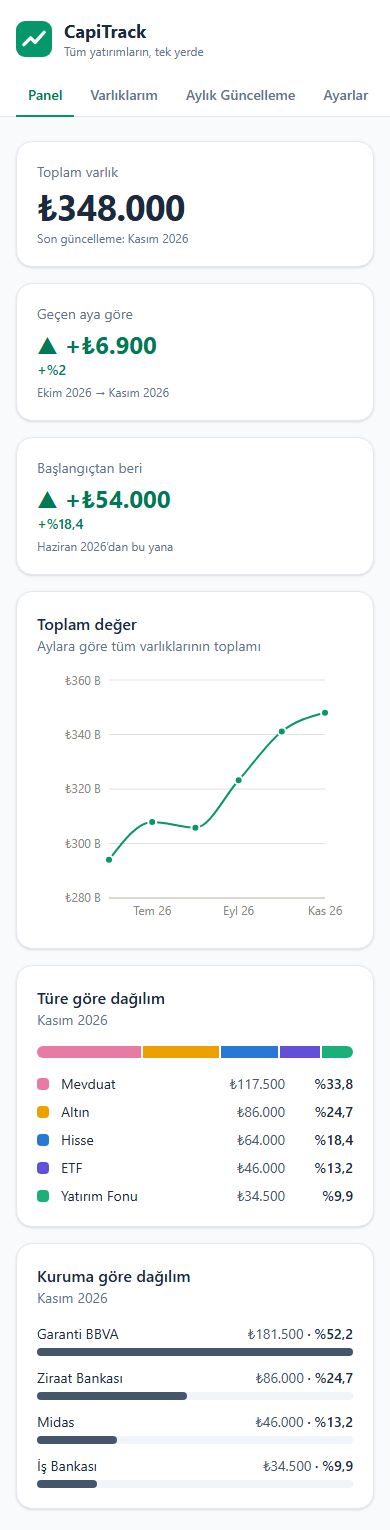
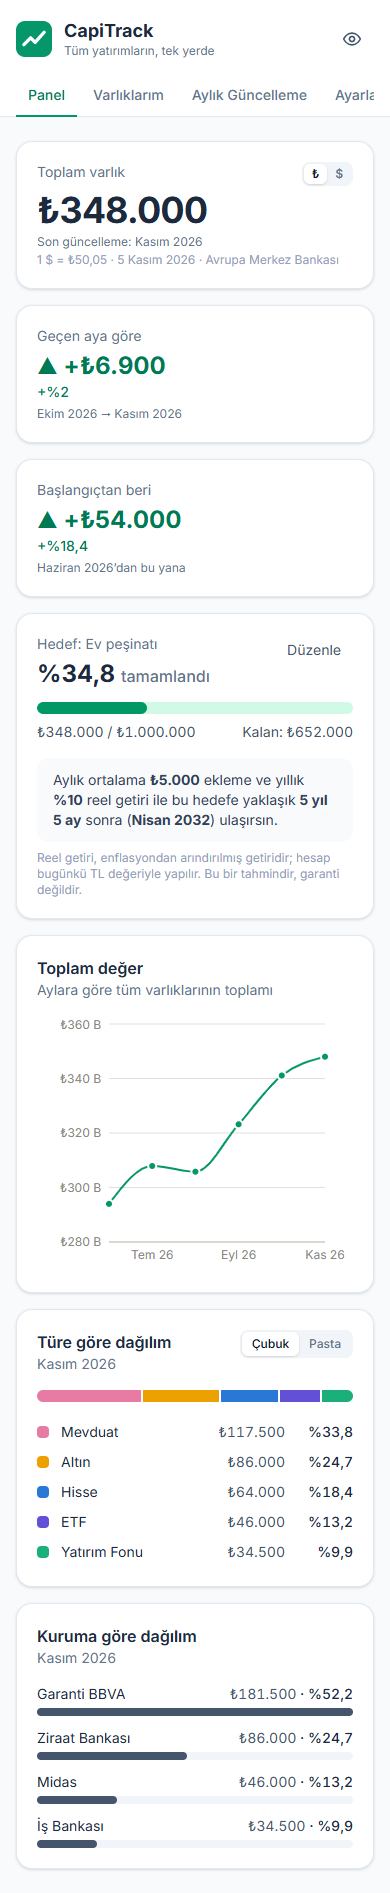
README ve ekran görüntülerini yeni özelliklerle güncelle

diff --git a/README.md b/README.md
@@ -20,10 +20,15 @@
 ## Özellikler
 
 - **Panel:** toplam varlık, geçen aya göre ve başlangıçtan beri değişim (₺ ve %), aylara göre toplam değer çizgi grafiği, türe göre ve kuruma göre dağılım.
+- **Çubuk / Pasta görünümü:** türe göre dağılım, bölümlü çubuk veya halka (pasta) grafik olarak gösterilebilir. Pastada bir dilimin ya da listedeki bir türün üzerine gelince halkanın ortasında o türün tutarı ve payı görünür.
+- **TL / Dolar:** toplam varlığa tıklayınca TL ile dolar arasında geçiş yapılır. Kur, ücretsiz bir servisten (Avrupa Merkez Bankası referans kuru) alınır ve 6 saat önbellekte tutulur; internet yoksa en son alınan kur kullanılır.
+- **Gizlilik modu:** üst menüdeki göz ikonu, kafe veya kütüphane gibi ortak alanlarda tüm tutarları tek tıkla `₺***,**` olarak gizler. Değer giriş kutuları bulanıklaşır, kutuya tıklayınca netleşir. Tercih hatırlanır.
+- **Hedef:** bir birikim hedefi (ör. ev peşinatı) belirlenir; portföyün hedefe oranı ilerleme çubuğuyla gösterilir. Aylık ekleme ve beklenen yıllık reel getiriyle, bileşik getiri hesabı yapılarak hedefe kaç ay sonra ulaşılacağı tahmin edilir.
 - **Varlıklarım:** varlık ekleme, düzenleme ve silme. Her varlığın türü (Altın, Hisse, ETF, Yatırım Fonu, Döviz, Mevduat, Kripto, Diğer), kurumu ve notu tutulur.
 - **Aylık Güncelleme:** bir ay seçilir ve tüm varlıkların o ayki değeri tek ekranda girilir. Alanlar önceki ayın değerleriyle hazır gelir; önceki aya göre değişim yazarken anlık hesaplanır.
 - **Son bilinen değer kuralı:** bir ay için değeri girilmeyen varlık, en son girilen değeriyle sayılır. Elden çıkarılan varlık için 0 yazılır; varlık toplamdan ve dağılımlardan düşer.
 - **Ayarlar:** verinin JSON dosyası olarak yedeklenmesi, yedekten doğrulamalı geri yükleme, örnek veri yükleme ve tüm verileri silme.
+- **Excel'e aktarma:** veriler biçimlendirilmiş bir `.xlsx` dosyası olarak indirilir. Dosyada dört sayfa bulunur: *Aylık Tablo* (varlık × ay, formüllü toplam satırı), *Dağılım* (son ayın türe ve kuruma göre payları), *Tüm Kayıtlar* (filtrelenebilir liste) ve *Varlıklar*.
 - **Türkçe sayı girişi:** `45.000`, `45000,50` veya `1.250.000 ₺` yazımlarının hepsi doğru okunur.
 - Telefon ve masaüstü uyumlu arayüz.
 
@@ -34,8 +39,10 @@
 | [React](https://react.dev) 19 | Arayüz bileşenleri |
 | [Vite](https://vite.dev) 8 | Geliştirme sunucusu ve derleme |
 | [Tailwind CSS](https://tailwindcss.com) 4 | Stil |
-| [Recharts](https://recharts.org) 3 | Çizgi grafik |
-| LocalStorage | Verinin tarayıcıda saklanması (sunucu / veritabanı yok) |
+| [Recharts](https://recharts.org) 3 | Çizgi ve pasta grafik |
+| [ExcelJS](https://github.com/exceljs/exceljs) 4 | Excel (.xlsx) dosyası üretimi; sadece indirme butonuna basılınca yüklenir |
+| [Frankfurter](https://frankfurter.dev) / [ExchangeRate-API](https://www.exchangerate-api.com) | Dolar/TL kuru (ücretsiz, API anahtarı gerektirmez) |
+| LocalStorage | Verinin ve tercihlerin tarayıcıda saklanması (sunucu / veritabanı yok) |
 | GitHub Actions + GitHub Pages | Her push'ta otomatik derleme ve yayın |
 
 ## Kurulum
@@ -69,8 +76,11 @@ src/
 │   ├── Dashboard.jsx       Panel: özet kartları ve grafikler
 │   ├── Assets.jsx          Varlıklarım
 │   ├── MonthlyUpdate.jsx   Aylık Güncelleme
-│   └── Settings.jsx        Ayarlar: yedekleme, örnek veri, sıfırlama
+│   └── Settings.jsx        Ayarlar: yedekleme, Excel, örnek veri, sıfırlama
 ├── components/
+│   ├── TotalTile.jsx       Toplam varlık kartı (TL / Dolar geçişi)
+│   ├── GoalCard.jsx        Hedef kartı ve hedef formu
+│   ├── TypeDistribution.jsx Türe göre dağılım (çubuk / pasta)
 │   ├── AssetForm.jsx       Varlık ekleme / düzenleme formu
 │   ├── SuggestInput.jsx    Öneri listeli metin kutusu (kurum alanı)
 │   └── TypeBadge.jsx       Renkli tür rozeti
@@ -78,7 +88,11 @@ src/
     ├── usePortfolio.js     Tüm verinin tutulduğu ve değiştirildiği yer
     ├── storage.js          LocalStorage okuma/yazma ve yedek doğrulama
     ├── analytics.js        Aylık toplamlar ve dağılım hesapları
-    ├── format.js           Para, yüzde, tarih biçimleri ve Türkçe sayı okuma
+    ├── goal.js             Bileşik getiri ve hedefe ulaşma süresi hesabı
+    ├── fx.js               Dolar/TL kurunun alınması ve önbelleklenmesi
+    ├── exportExcel.js      Excel dosyasının oluşturulması
+    ├── prefs.js            Tercihlerin hatırlanması (gizlilik, para birimi, görünüm)
+    ├── format.js           Para, yüzde, tarih biçimleri, gizlilik maskesi, Türkçe sayı okuma
     ├── constants.js        Yatırım türleri ve renkleri
     └── demoData.js         Örnek portföy
 ```
@@ -96,12 +110,26 @@ Tüm veri tarayıcıda `capitrack:data` anahtarı altında tek bir JSON nesnesi 
   "records": {
     "2026-10": { "<varlık id>": { "value": 83500 } },
     "2026-11": { "<varlık id>": { "value": 86000 } }
-  }
+  },
+  "goal": { "name": "Ev peşinatı", "target": 1000000, "monthly": 5000, "annualReturn": 0.1 }
 }
 ```
 
 - **assets:** kullanıcının sahip olduğu yatırımlar.
 - **records:** her ay için her varlığın o ayki toplam değeri (₺). Ay anahtarı `YYYY-AA` biçimindedir.
+- **goal:** birikim hedefi (tutar, aylık ekleme, yıllık reel getiri oranı) ya da hedef yoksa `null`.
+
+Gizlilik modu, para birimi ve grafik görünümü gibi tercihler portföy verisinden ayrı anahtarlarda (`capitrack:privacy` vb.) tutulur ve yedeğe dahil edilmez.
+
+### Hedef hesabı
+
+Hedefe ulaşma süresi, her ay birikimin getiri kadar büyüdüğü ve üstüne aylık ekleme yapıldığı varsayımıyla hesaplanır:
+
+```
+FV(n) = P·(1+r)ⁿ + C·((1+r)ⁿ − 1) / r        →        n = ln((H·r + C) / (P·r + C)) / ln(1+r)
+```
+
+`P` bugünkü portföy, `C` aylık ekleme, `H` hedef ve `r` aylık getiri oranıdır. Yıllık oran aylığa bileşik olarak çevrilir: `r = (1 + yıllık)^(1/12) − 1` (yıllık %10 → aylık yaklaşık %0,797).
 
 Veri sadece kullanıldığı tarayıcıda durur. Başka bir cihaza taşımak veya kaybetmemek için **Ayarlar → Yedeği indir** kullanılır.
 
@@ -114,7 +142,8 @@ Proje, VS Code içinde **Claude Code** eklentisiyle (model: Claude Opus 5.5) gel
 | **Fikir** | Gemini ile proje fikirleri tartışıldı. "Yatırım ve portföy takipçisi" fikri seçildi ve kişisel ihtiyaca göre şekillendirildi. |
 | **Planlama** | Claude'a proje yönergesi ve fikir verilerek bir yol haritası istendi. Teknoloji seçimi (React + Vite, Tailwind, Recharts) ve aşamalar birlikte planlandı. |
 | **Kurulum** | Claude, Vite projesini oluşturdu, Tailwind ve Recharts'ı kurdu, Git deposunu başlattı ve GitHub Pages için otomatik yayın iş akışını yazdı. |
-| **Geliştirme** | Bileşenler aşama aşama üretildi: varlık yönetimi → aylık güncelleme → panel ve grafikler → yedekleme ve örnek veri. "Son bilinen değer" kuralı ve pasta grafik yerine bölümlü çubuk kullanımı gibi tasarım kararları gerekçeleriyle önerildi ve onaylandı. Grafik renkleri renk körlüğü testinden geçirildi. |
-| **Hata ayıklama** | Klasör adındaki `;` yüzünden `vite` komutunun bulunamaması teşhis edilip çözüldü. Kullanıcının bildirdiği "kurum öneri listesinin yanlış yerde açılması" hatası, tarayıcının `<datalist>` özelliğinin Windows ekran ölçeklendirmesindeki sorununa bağlanıp kendi bileşenle değiştirildi. Zaman aşımına uğrayan GitHub Pages yayını, action sürümleri güncellenerek düzeltildi. Ekran görüntüleri incelenerek animasyon, yüzde biçimi ve eksen etiketi sorunları bulundu ve giderildi. |
-| **Doğrulama** | Üretilen kod her aşamada derlendi ve linter'dan geçirildi. Sayı okuma, aylık toplam ve yedek doğrulama fonksiyonları örnek verilerle test edildi. Proje sahibi her aşamayı tarayıcıda elle test etti. |
+| **Geliştirme** | Bileşenler aşama aşama üretildi: varlık yönetimi → aylık güncelleme → panel ve grafikler → yedekleme ve örnek veri. "Son bilinen değer" kuralı ve dağılım için bölümlü çubuk kullanımı gibi tasarım kararları gerekçeleriyle önerildi ve onaylandı. Grafik renkleri renk körlüğü testinden geçirildi. |
+| **Yeni özellikler** | Temel uygulama bittikten sonra proje sahibinin istediği özellikler eklendi: çubuk / pasta görünüm seçici, TL / Dolar geçişi, gizlilik modu, Excel'e aktarma ve bileşik getirili hedef hesabı. Kur servisleri önceden test edilip tarayıcıdan erişime izin verdikleri doğrulandı. Hedef formülü, hedefe ulaşılan ay ile bir önceki ayın birikimi karşılaştırılarak kontrol edildi. |
+| **Hata ayıklama** | Klasör adındaki `;` yüzünden `vite` komutunun bulunamaması teşhis edilip çözüldü. Kullanıcının bildirdiği "kurum öneri listesinin yanlış yerde açılması" hatası, tarayıcının `<datalist>` özelliğinin Windows ekran ölçeklendirmesindeki sorununa bağlanıp kendi bileşenle değiştirildi. Zaman aşımına uğrayan GitHub Pages yayını, action sürümleri güncellenerek düzeltildi. Ekran görüntüleri incelenerek animasyon, yüzde biçimi ve eksen etiketi sorunları bulundu ve giderildi. Kullanıcının bildirdiği "pasta grafikte yazıların üst üste binmesi" sorunu, ipucu kutusu yerine halkanın ortasında bilgi gösterilerek; "grafiğe tıklayınca çıkan çerçeve" sorunu ise fare tıklamasında odak çerçevesi gizlenip klavye odağında korunarak çözüldü. |
+| **Doğrulama** | Üretilen kod her aşamada derlendi ve linter'dan geçirildi. Sayı okuma, aylık toplam, yedek doğrulama ve hedef hesabı fonksiyonları örnek verilerle test edildi. Arayüz, otomatik kontrol edilen bir tarayıcıda (Edge + Puppeteer) butonlara tıklanarak denendi; indirilen Excel dosyası hücre hücre okunup kontrol edildi. Proje sahibi her aşamayı tarayıcıda elle test etti. |
 | **Dokümantasyon** | Bu README ve ekran görüntüleri Claude tarafından hazırlandı. |
